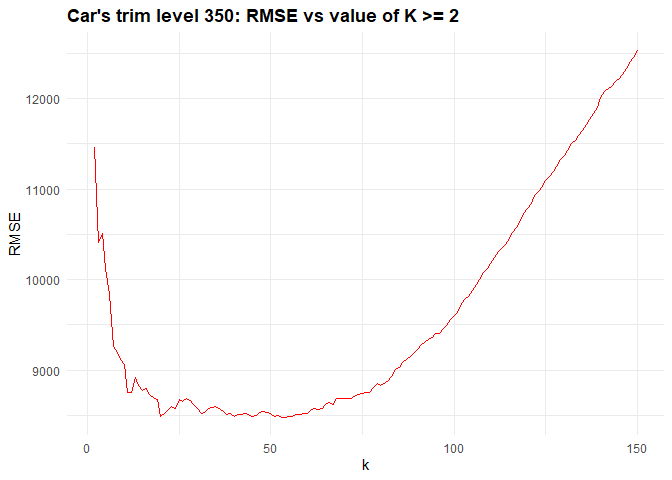
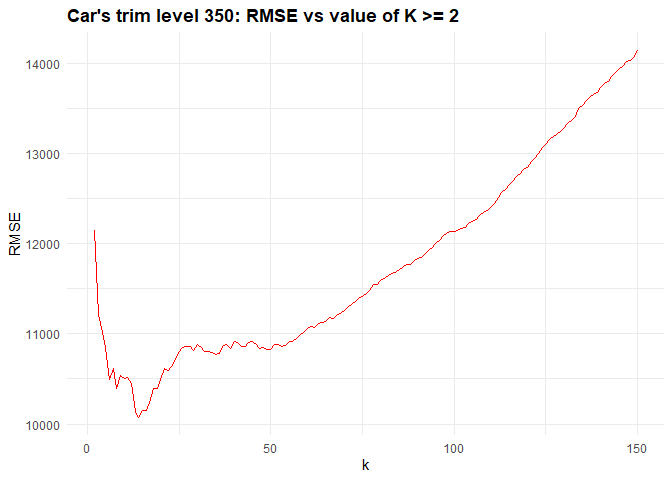
Exercise 1_1

diff --git a/Exercise 1/Chia-Sheng-Tu---Date-Mining---1.md b/Exercise 1/Chia-Sheng-Tu---Date-Mining---1.md
@@ -97,15 +97,15 @@ optimal value of K
 
 **Optimal value of K**
 
-    ## [1] 53
+    ## [1] 14
 
 **RMSE from the Optimal value of K**
 
-    ## [1] 8481.191
+    ## [1] 10076.76
 
 ![](Chia-Sheng-Tu---Date-Mining---1_files/figure-markdown_strict/problem%203_1.4-1.png)
 
-**Figure 2:** Plot of the fitted model, predicted price and real price
+**Figure 6:** Plot of the fitted model, predicted price and real price
 
 ### Car trim level 65 AMG
 
@@ -118,11 +118,11 @@ optimal value of K
 
 **Optimal value of K**
 
-    ## [1] 5
+    ## [1] 9
 
 **RMSE from the Optimal value of K**
 
-    ## [1] 17185.43
+    ## [1] 16034.36
 
 ![](Chia-Sheng-Tu---Date-Mining---1_files/figure-markdown_strict/problem%203_2.4-1.png)
 
